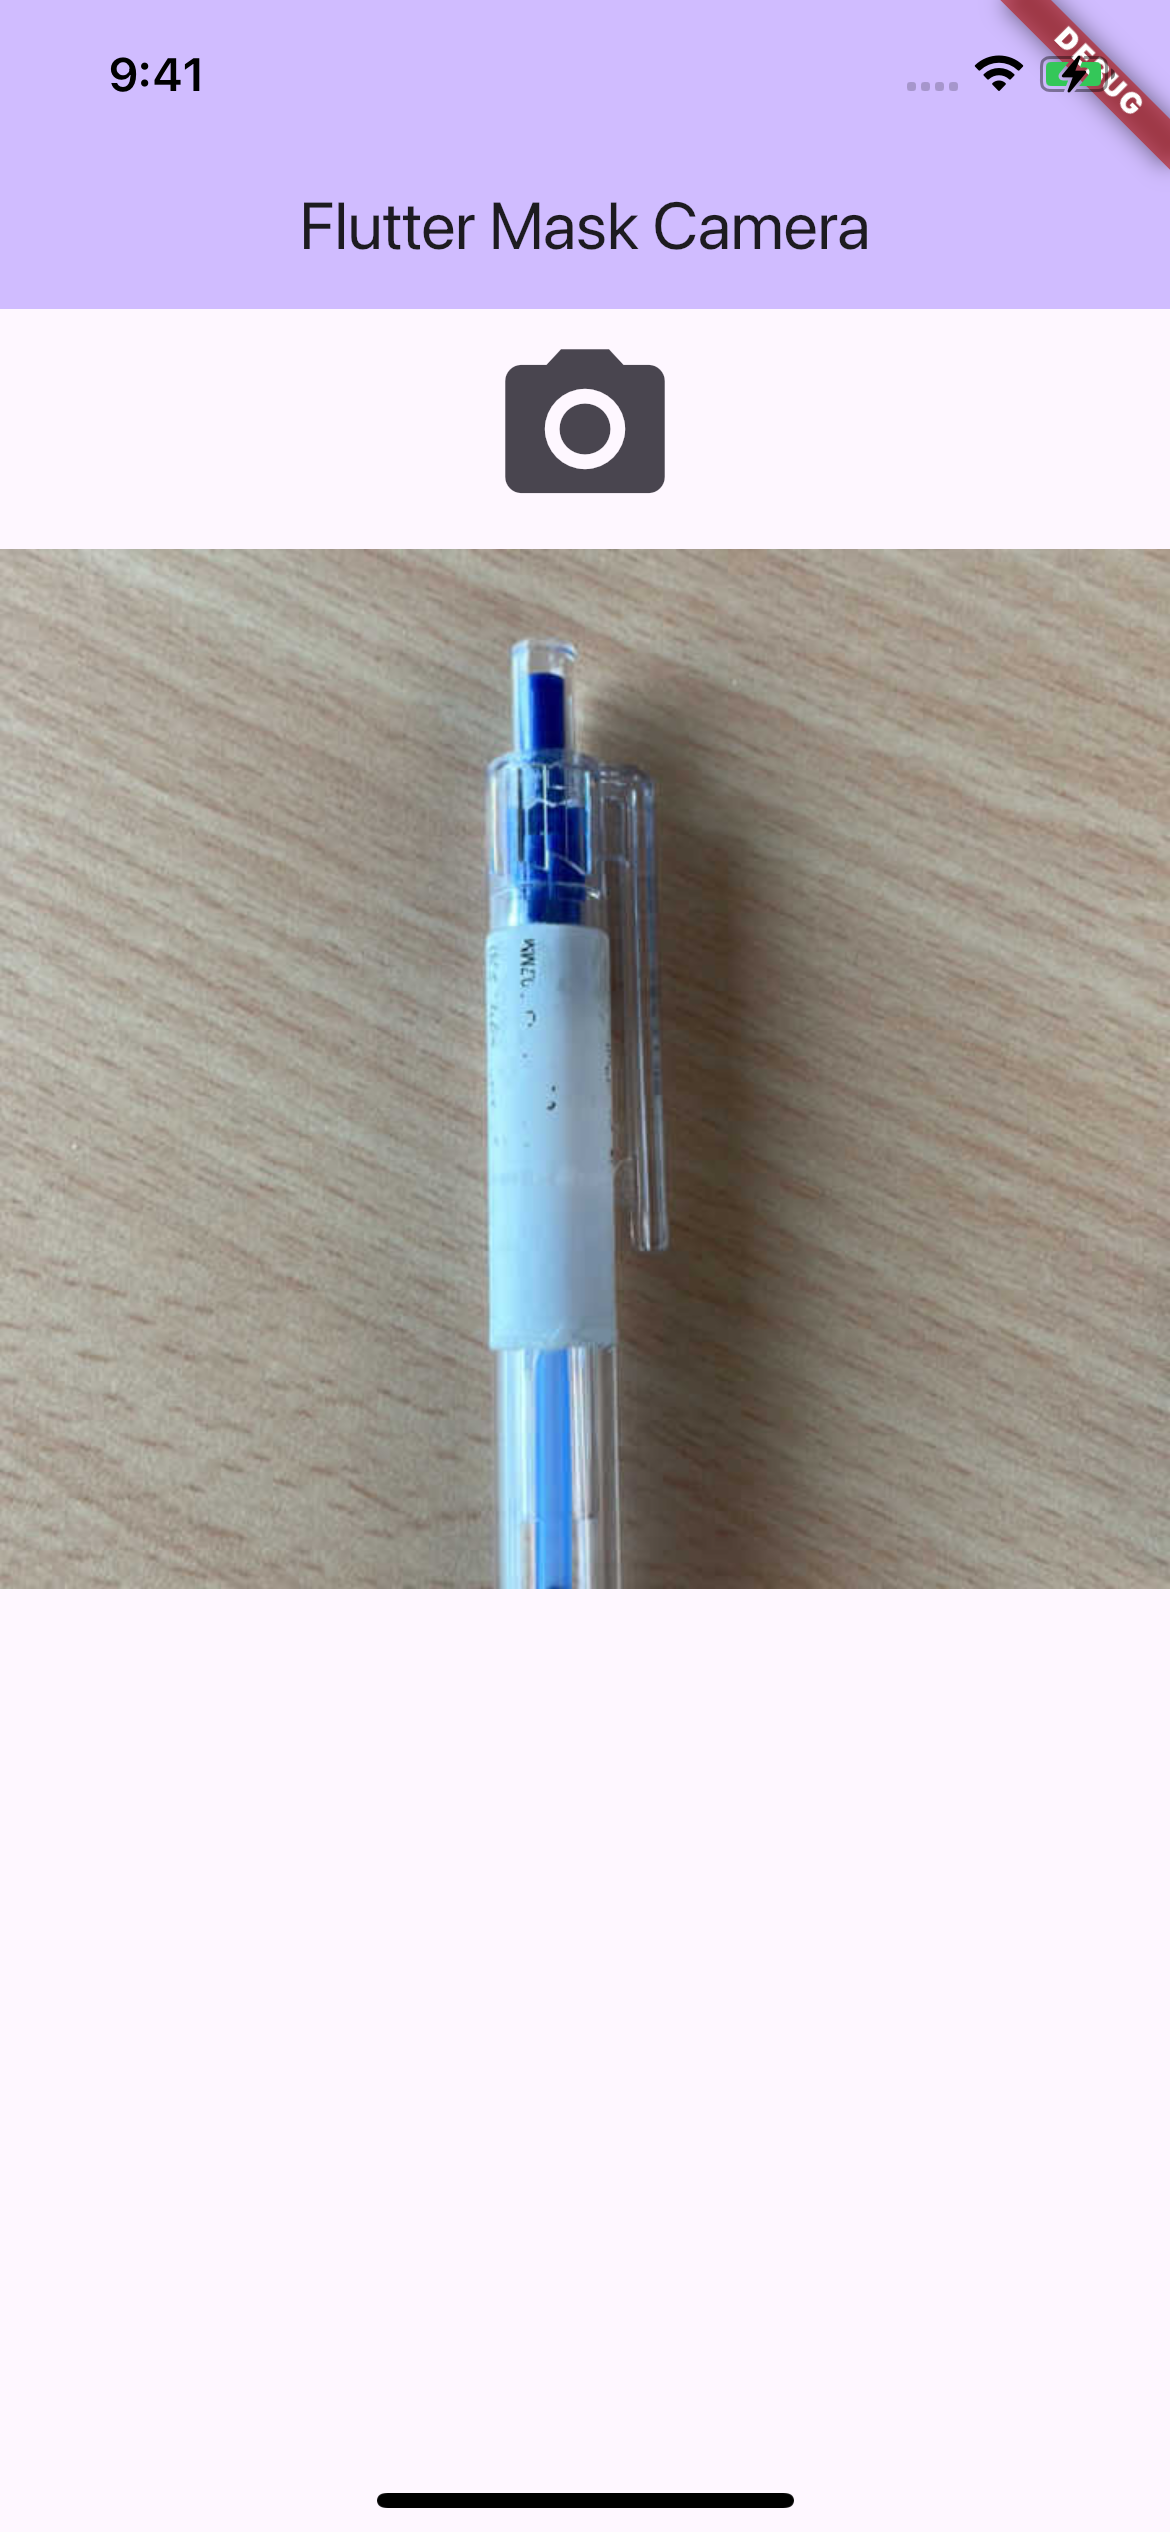
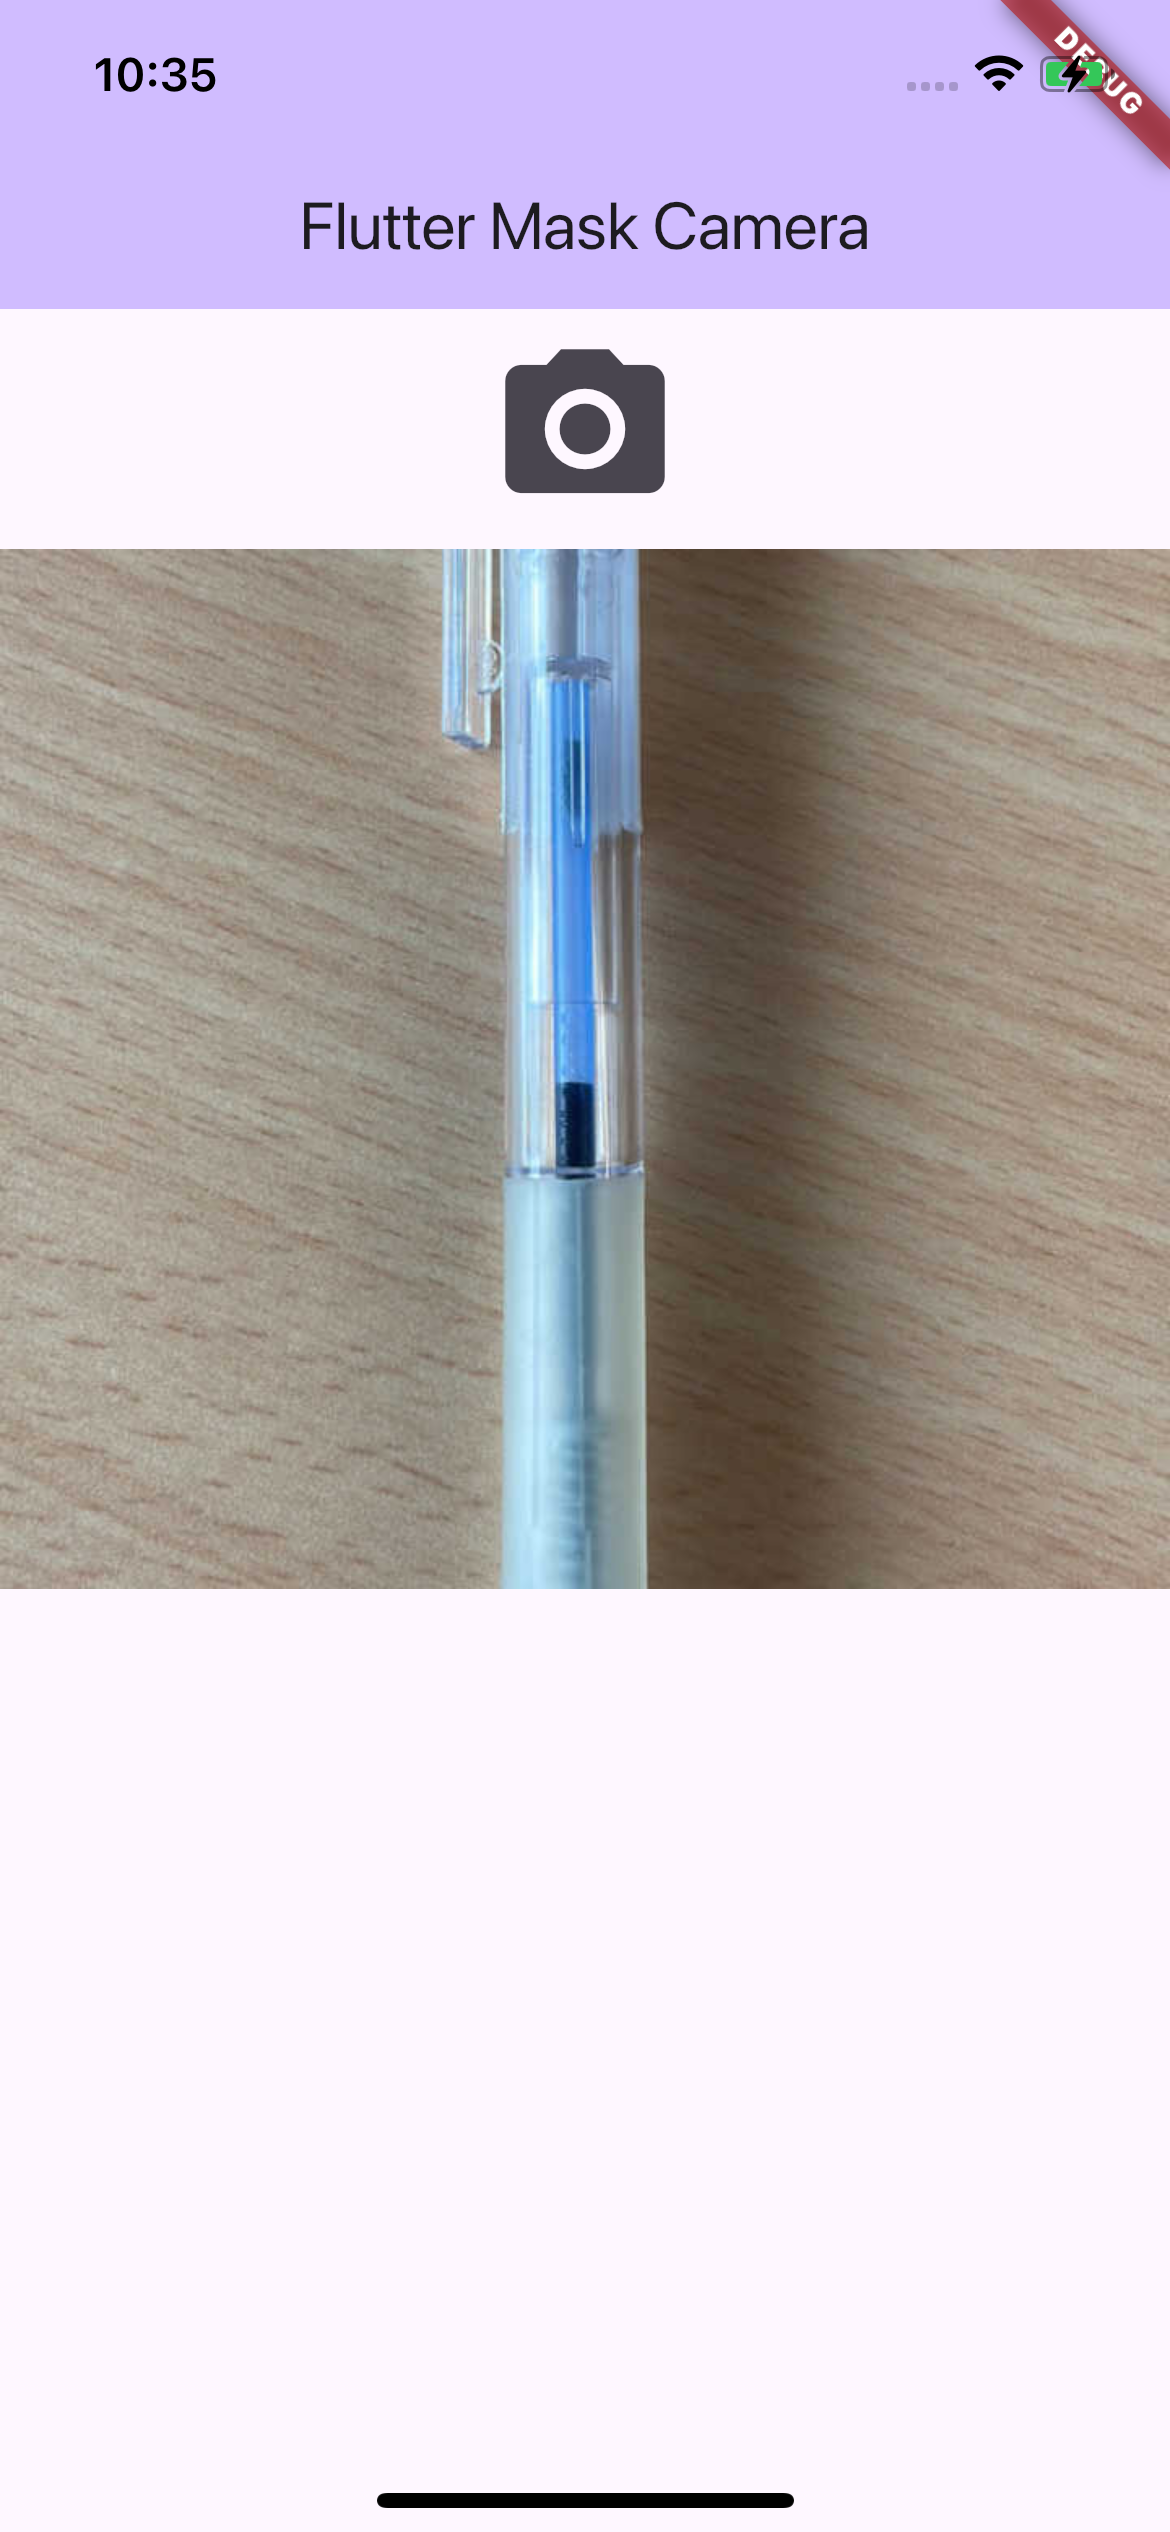
feat: update screenshots and crop image function

diff --git a/lib/camera/camera_mixin.dart b/lib/camera/camera_mixin.dart
@@ -2,6 +2,7 @@ import 'dart:io';
 
 import 'package:camera/camera.dart';
 import 'package:flutter/services.dart';
+import 'package:flutter_mask_camera/camera/rectangle_clipping.dart';
 import 'package:image/image.dart' as img;
 import 'package:permission_handler/permission_handler.dart';
 import 'package:sensors_plus/sensors_plus.dart';
@@ -39,6 +40,7 @@ mixin CameraMixin {
   Future<File?> cropImage({
     required XFile xFile,
     required double height,
+    required RectanglePosition position,
     required DeviceOrientation? orientation,
   }) async {
     // 處理後的圖片
@@ -57,8 +59,19 @@ mixin CameraMixin {
         orientation == DeviceOrientation.portraitDown;
     // 若為直向模式則進行裁切圖片，否則處理旋轉圖片
     if (isPortrait) {
+      double top;
       // 計算裁切區域
-      final top = height * 0.5;
+      switch (position) {
+        case RectanglePosition.top:
+          top = 0;
+          break;
+        case RectanglePosition.center:
+          top = (imageHeight - height) * 0.5;
+          break;
+        case RectanglePosition.bottom:
+          top = imageHeight - height;
+          break;
+      }
       // 計算圖片與螢幕的縮放比例
       final scaleY = imageHeight / (height * 2);
       // 將 top 和 height 轉換成圖片的像素範圍

diff --git a/lib/camera_dialog.dart b/lib/camera_dialog.dart
@@ -59,7 +59,7 @@ class _CameraDialogState extends ConsumerState<CameraDialog>
               child: MaskCameraView(
                 contentHeight: contentHeight,
                 rectangleTitle: AppLocalizations.of(context)!.takePicture,
-                rectanglePosition: RectanglePosition.bottom,
+                rectanglePosition: RectanglePosition.center,
                 onTakePicture: ({File? file, DeviceOrientation? orientation}) =>
                     _takePicture(file: file, orientation: orientation),
               ),

diff --git a/lib/camera/mask_camera_view.dart b/lib/camera/mask_camera_view.dart
@@ -277,6 +277,7 @@ class _MaskCameraViewState extends ConsumerState<MaskCameraView>
         croppedImage = await cropImage(
             xFile: xFile,
             height: widget.contentHeight,
+            position: widget.rectanglePosition,
             orientation: orientation);
       }
       widget.onTakePicture?.call(file: croppedImage, orientation: orientation);

diff --git a/README.md b/README.md
@@ -28,6 +28,6 @@ This project is a camera with mask for a Flutter application.
 ## More screenshots
 | **Mask at Top** | **Mask at Center** | **Mask at Bottom** |
 | ------------- | ------------- | ------------- |
-|![Screenshots](screenshots/camera_mask_top.png)|![Screenshots](screenshots/camera_mask_center.png)|![Screenshots](screenshots/camera_mask_bottom.png)|
+|![Screenshots](screenshots/top_camera_mask.png)|![Screenshots](screenshots/center_camera_mask.png)|![Screenshots](screenshots/bottom_camera_mask.png)|
 | **Top Cropped Image** | **Center Cropped Image** | **Bottom Cropped Image** |
-|![Screenshots](screenshots/center_cropped_Image.png)|![Screenshots](screenshots/center_cropped_Image.png)|![Screenshots](screenshots/center_cropped_Image.png)|
+|![Screenshots](screenshots/top_cropped_Image.png)|![Screenshots](screenshots/center_cropped_Image.png)|![Screenshots](screenshots/bottom_cropped_Image.png)|
